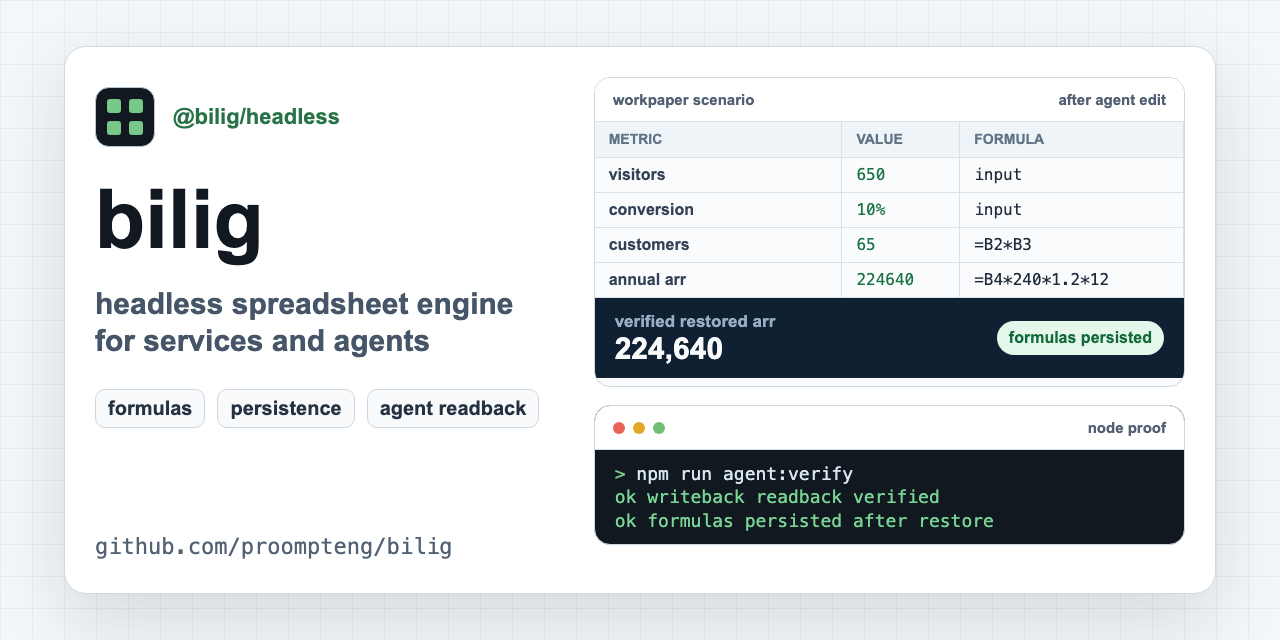
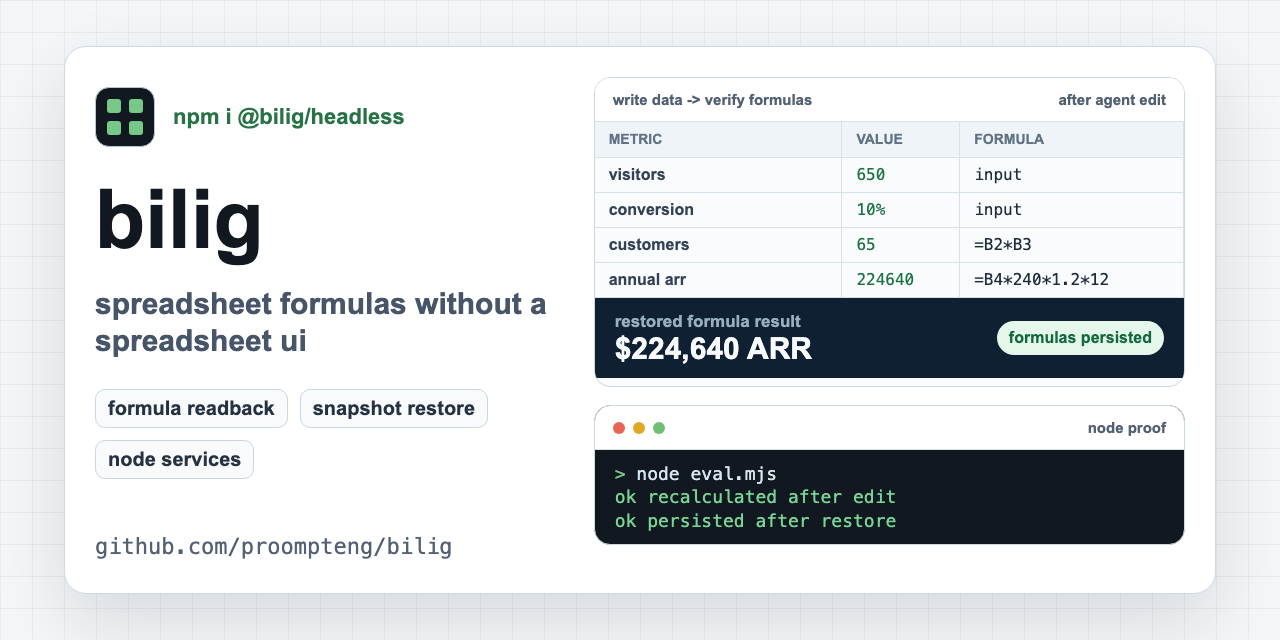
docs(growth): tighten public launch surfaces

diff --git a/docs/index.html b/docs/index.html
@@ -18,14 +18,14 @@
     />
     <meta property="og:type" content="website" />
     <meta property="og:url" content="https://proompteng.github.io/bilig/" />
-    <meta property="og:image" content="https://proompteng.github.io/bilig/assets/github-social-preview.png" />
+    <meta property="og:image" content="https://proompteng.github.io/bilig/assets/github-social-preview.png?v=2026-05-07" />
     <meta name="twitter:card" content="summary_large_image" />
     <meta name="twitter:title" content="bilig - headless spreadsheet engine" />
     <meta
       name="twitter:description"
       content="A TypeScript workbook runtime for services and agents that need formulas without a spreadsheet UI."
     />
-    <meta name="twitter:image" content="https://proompteng.github.io/bilig/assets/github-social-preview.png" />
+    <meta name="twitter:image" content="https://proompteng.github.io/bilig/assets/github-social-preview.png?v=2026-05-07" />
     <script type="application/ld+json">
       {
         "@context": "https://schema.org",
@@ -37,7 +37,7 @@
         "programmingLanguage": "TypeScript",
         "runtimePlatform": "Node.js 24+",
         "url": "https://proompteng.github.io/bilig/",
-        "image": "https://proompteng.github.io/bilig/assets/github-social-preview.png"
+        "image": "https://proompteng.github.io/bilig/assets/github-social-preview.png?v=2026-05-07"
       }
     </script>
     <style>
@@ -147,12 +147,12 @@
       }
 
       .hero {
-        padding: 78px 0 62px;
+        padding: 66px 0 54px;
       }
 
       .hero-grid {
         display: grid;
-        grid-template-columns: minmax(0, 0.95fr) minmax(360px, 0.78fr);
+        grid-template-columns: minmax(0, 0.92fr) minmax(380px, 0.82fr);
         gap: 46px;
         align-items: center;
       }
@@ -184,10 +184,10 @@
       }
 
       h1 {
-        max-width: 780px;
+        max-width: 700px;
         margin-top: 18px;
-        font-size: clamp(42px, 5.8vw, 76px);
-        line-height: 0.98;
+        font-size: clamp(40px, 5vw, 66px);
+        line-height: 1;
         letter-spacing: 0;
       }
 
@@ -195,14 +195,47 @@
         max-width: 680px;
         margin-top: 24px;
         color: var(--muted);
-        font-size: clamp(18px, 2vw, 22px);
+        font-size: clamp(18px, 1.7vw, 20px);
+      }
+
+      .proof-strip {
+        display: grid;
+        grid-template-columns: repeat(3, minmax(0, 1fr));
+        gap: 10px;
+        max-width: 760px;
+        margin-top: 24px;
+      }
+
+      .proof-strip div {
+        min-height: 92px;
+        border: 1px solid var(--line);
+        border-radius: 8px;
+        background: rgba(255, 255, 255, 0.72);
+        padding: 13px 14px;
+      }
+
+      .proof-strip strong,
+      .proof-strip span {
+        display: block;
+      }
+
+      .proof-strip strong {
+        color: var(--ink);
+        font-size: 13px;
+      }
+
+      .proof-strip span {
+        margin-top: 5px;
+        color: var(--muted);
+        font-size: 13px;
+        line-height: 1.35;
       }
 
       .actions {
         display: flex;
         flex-wrap: wrap;
         gap: 12px;
-        margin-top: 30px;
+        margin-top: 26px;
       }
 
       .button {
@@ -521,6 +554,7 @@
         }
 
         .hero-grid,
+        .proof-strip,
         .quickstart,
         .quickstart-wide,
         .surface,
@@ -574,11 +608,25 @@
         <div class="hero-grid">
           <div>
             <p class="label">workbook runtime for code</p>
-            <h1 id="hero-title">Headless spreadsheet engine for services and agents.</h1>
+            <h1 id="hero-title">Spreadsheet formulas without a spreadsheet UI.</h1>
             <p class="lede">
-              bilig gives TypeScript programs a workbook API: formulas, sheet edits, structural operations, snapshots, and restore paths
-              without driving a browser spreadsheet UI.
+              bilig gives TypeScript programs a workbook API for formulas, structural edits, snapshots, and persisted readback without
+              driving a browser grid.
             </p>
+            <div class="proof-strip" aria-label="evaluation proof">
+              <div>
+                <strong>npm-only eval</strong>
+                <span>install @bilig/headless, run one node script, and verify formula restore.</span>
+              </div>
+              <div>
+                <strong>agent writeback</strong>
+                <span>mutate workbook inputs, recalculate formulas, and prove the saved document round-trips.</span>
+              </div>
+              <div>
+                <strong>bounded claims</strong>
+                <span>compatibility notes, fixtures, and open issues show what works and what does not yet.</span>
+              </div>
+            </div>
             <div class="actions">
               <a class="button primary" href="https://www.npmjs.com/package/@bilig/headless">Install @bilig/headless</a>
               <a class="button" href="https://github.com/proompteng/bilig/tree/main/examples/headless-workpaper">Run the example</a>
@@ -587,7 +635,7 @@
             </div>
           </div>
           <aside class="hero-card" aria-label="bilig preview">
-            <img src="./assets/github-social-preview.png" alt="bilig engine diagram and workbook preview" />
+            <img src="./assets/github-social-preview.png?v=2026-05-07" alt="bilig engine diagram and workbook preview" />
             <div class="hero-card-footer">
               <div class="stat">
                 <strong>TypeScript</strong>

diff --git a/scripts/render-social-preview.ts b/scripts/render-social-preview.ts
@@ -301,14 +301,14 @@ const html = String.raw`<!doctype html>
                 <span></span>
                 <span></span>
               </div>
-              <div class="eyebrow">@bilig/headless</div>
+              <div class="eyebrow">npm i @bilig/headless</div>
             </div>
             <h1>bilig</h1>
-            <p class="subtitle">headless spreadsheet engine for services and agents</p>
+            <p class="subtitle">spreadsheet formulas without a spreadsheet ui</p>
             <div class="badges" aria-label="package badges">
-              <span class="badge">formulas</span>
-              <span class="badge">persistence</span>
-              <span class="badge">agent readback</span>
+              <span class="badge">formula readback</span>
+              <span class="badge">snapshot restore</span>
+              <span class="badge">node services</span>
             </div>
           </div>
           <div class="url">github.com/proompteng/bilig</div>
@@ -317,7 +317,7 @@ const html = String.raw`<!doctype html>
         <div class="right">
           <section class="panel" aria-label="workpaper grid">
             <div class="panel-title">
-              <span>workpaper scenario</span>
+              <span>write data -> verify formulas</span>
               <span>after agent edit</span>
             </div>
             <table class="grid">
@@ -353,8 +353,8 @@ const html = String.raw`<!doctype html>
             </table>
             <div class="result">
               <div>
-                <small>verified restored arr</small>
-                <strong>224,640</strong>
+                <small>restored formula result</small>
+                <strong>$224,640 ARR</strong>
               </div>
               <span class="verified">formulas persisted</span>
             </div>
@@ -370,9 +370,9 @@ const html = String.raw`<!doctype html>
               <span>node proof</span>
             </div>
             <div class="terminal-body">
-              <div><span class="prompt">&gt;</span> npm run agent:verify</div>
-              <div class="ok">ok writeback readback verified</div>
-              <div class="ok">ok formulas persisted after restore</div>
+              <div><span class="prompt">&gt;</span> node eval.mjs</div>
+              <div class="ok">ok recalculated after edit</div>
+              <div class="ok">ok persisted after restore</div>
             </div>
           </section>
         </div>

diff --git a/docs/github-stars-growth-plan.md b/docs/github-stars-growth-plan.md
@@ -119,6 +119,15 @@ Verified on 2026-05-07 after the Show HN launch and topic refresh:
   GitHub Pages walkthrough and framed "Excel compatible" claims as
   fixture-scoped evidence: workbook files, cached formula results, skips,
   mismatches, and a rerunnable verifier command.
+- Closed public correctness issues `#63`, `#62`, and `#54` with committed
+  regressions or verified main-branch coverage, green local checks, and green
+  GitHub workflows before closing each issue. This improves the trust surface
+  before sending more launch traffic to the repo.
+- Refreshed the GitHub Pages first viewport and social preview card around the
+  source-backed conversion points: npm-only evaluation, agent writeback proof,
+  and bounded compatibility claims. Verified the static page in browser at
+  desktop and mobile widths, and re-ran the social-preview and docs-discovery
+  checks.
 
 ## Research Findings
 